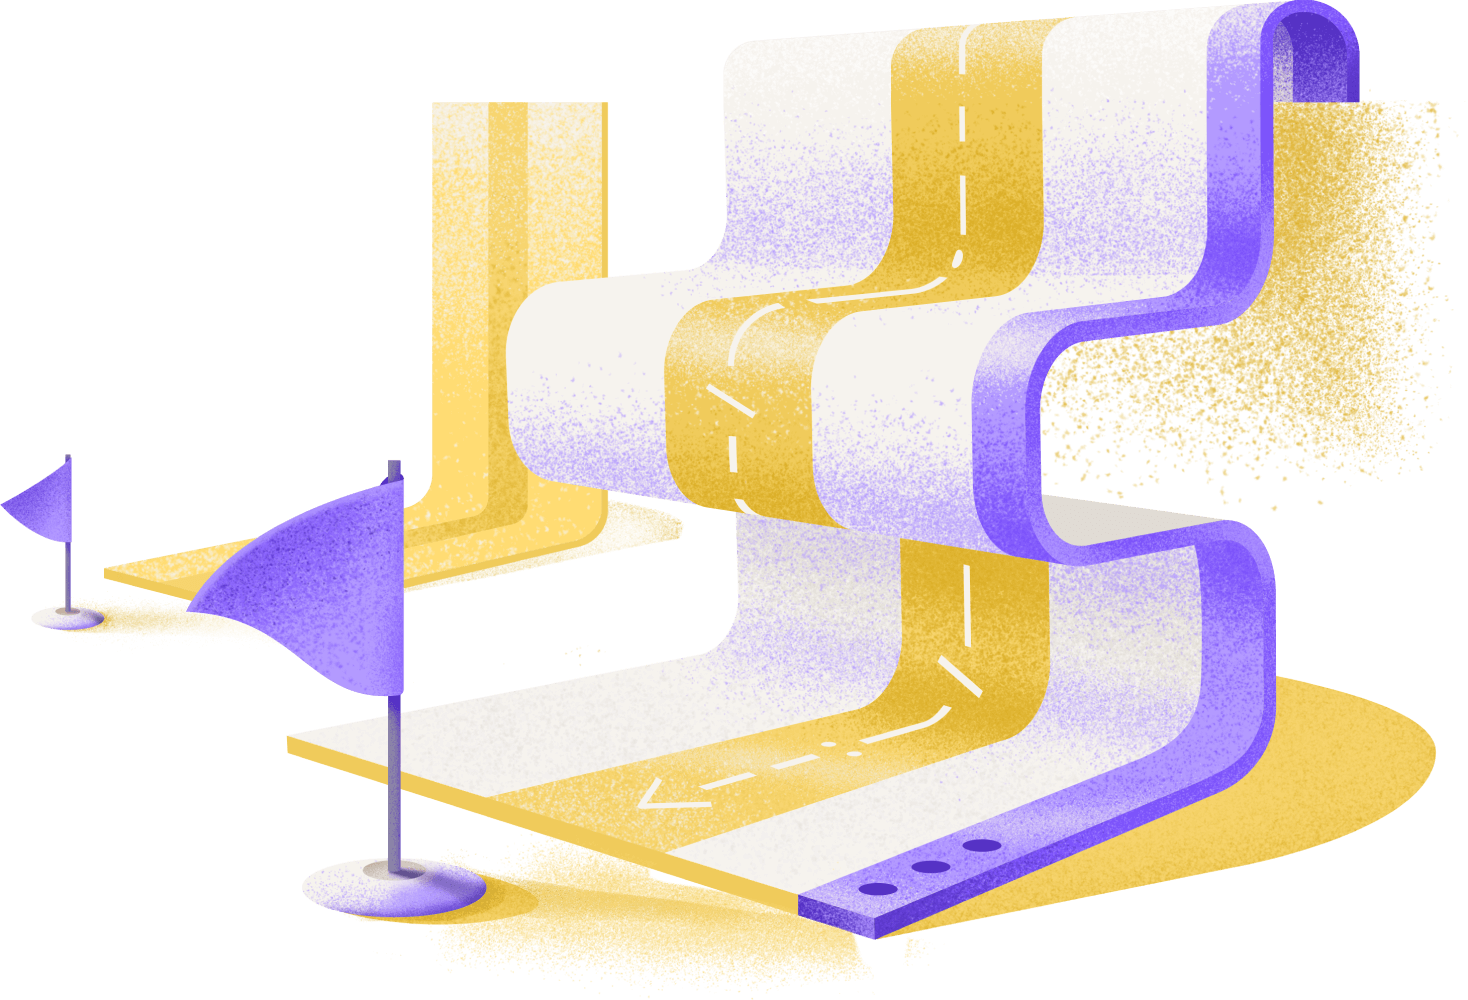
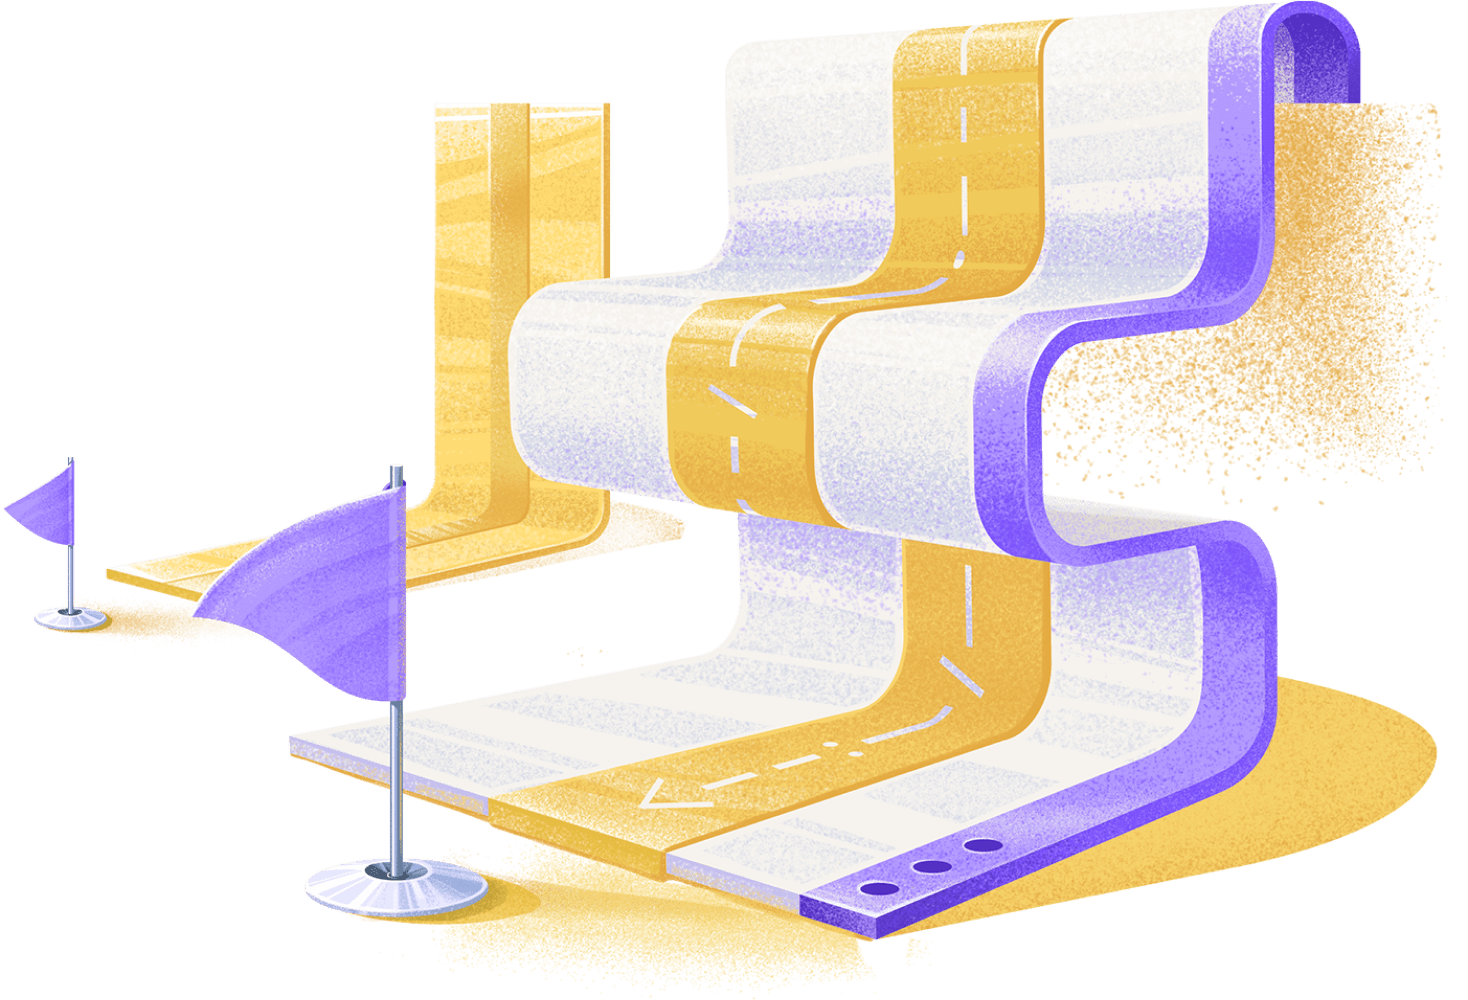
refactor(components): update an image in get-started block

Changed region(s): [[0.0, 0.0, 0.9809, 0.992]]

diff --git a/src/templates/home.jsx b/src/templates/home.jsx
@@ -99,7 +99,6 @@ export const query = graphql`
             code
             codeStyle
           }
-          initiallySelectedItemNumber
         }
         options {
           title

diff --git a/src/components/shared/get-started/get-started.module.scss b/src/components/shared/get-started/get-started.module.scss
@@ -149,6 +149,7 @@
   }
 
   @include xxs-down {
-    width: 100%;
+    top: 10px;
+    width: 230px;
   }
 }
